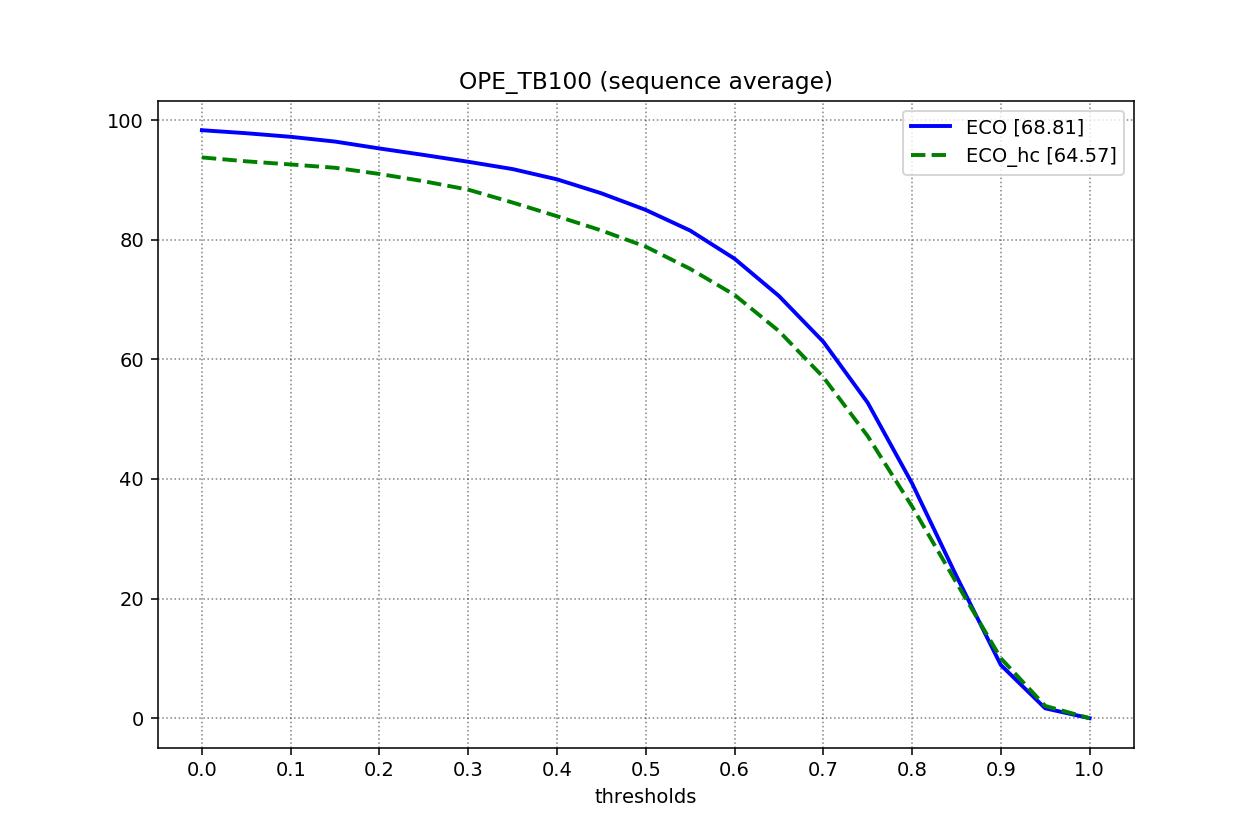
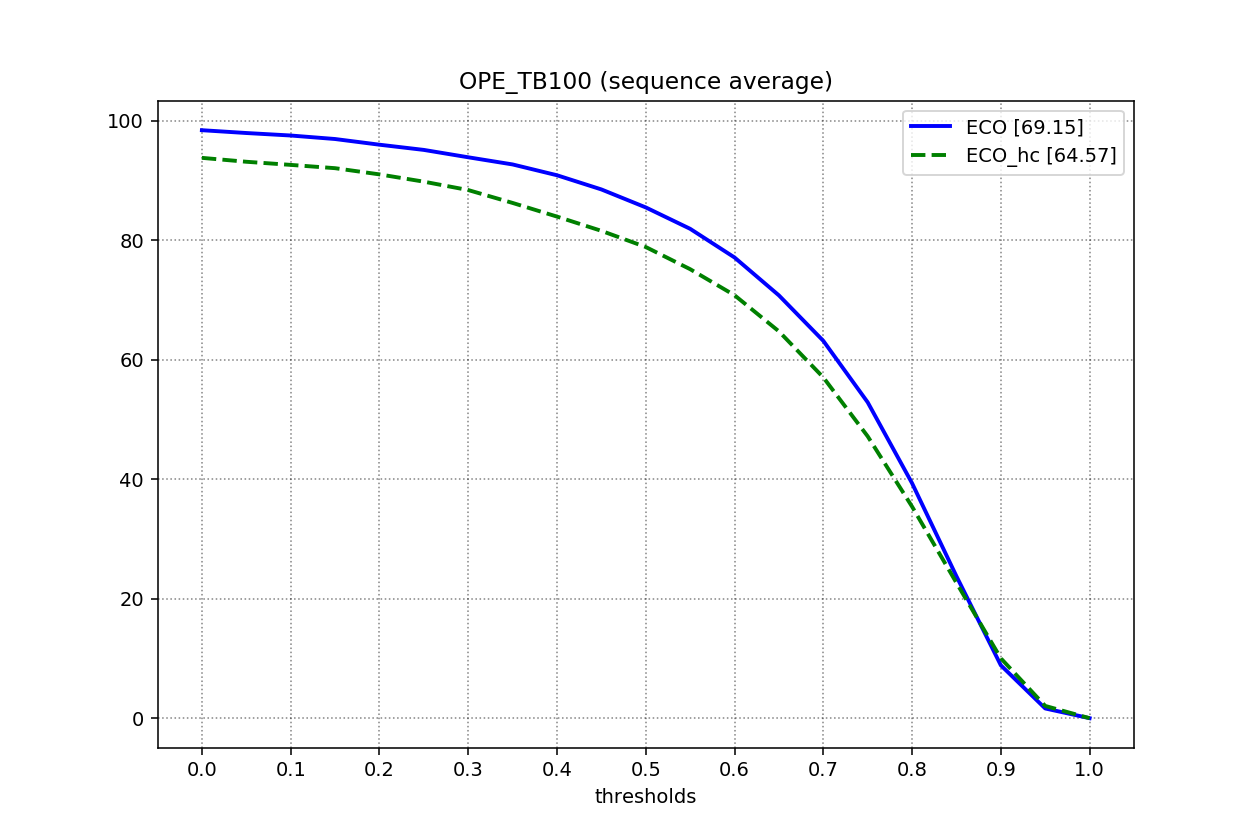
eco_deep auc score improve

diff --git a/README.md b/README.md
@@ -14,7 +14,7 @@ python bin/demo_ECO_hc.py --video_dir path/to/video
 
 | Tracker  | AUC           |
 | -------- | ------------- |
-| ECO_deep | 68.8(vs 70.0) |
+| ECO_deep | 69.2(vs 70.0) |
 | ECO_hc   | 64.6(vs 65.0) |
 
 ![](./figure/otb100.png)
